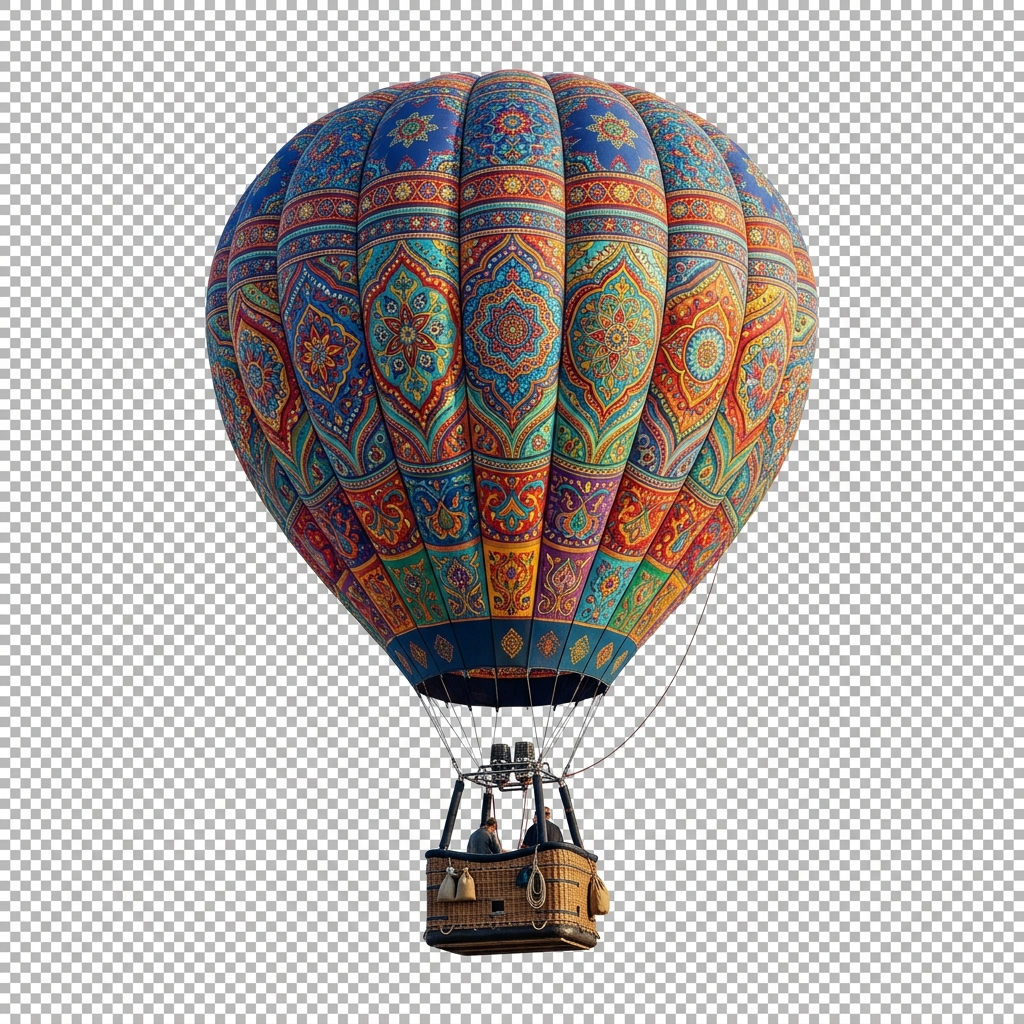
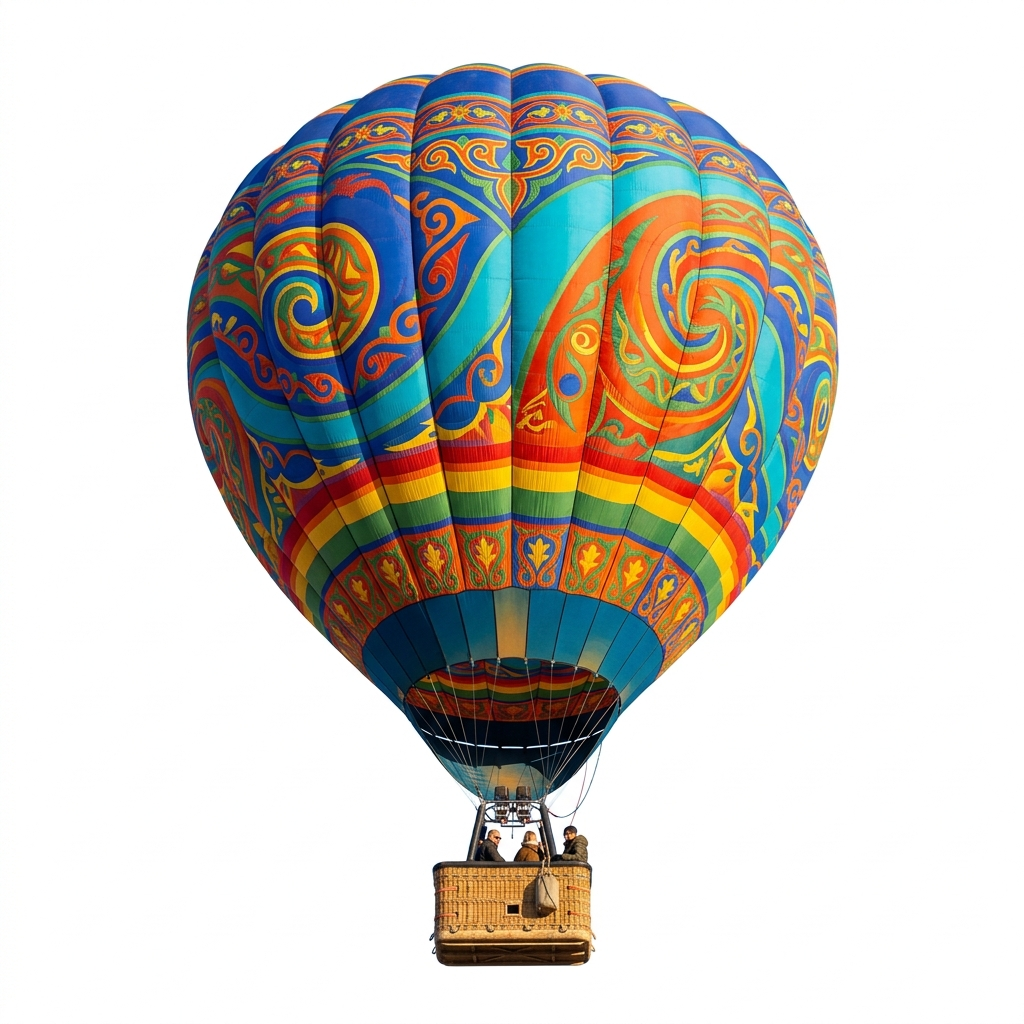
fix: remove balloon background edges using mix-blend-mode

diff --git a/koltuk/style.css b/koltuk/style.css
@@ -44,8 +44,9 @@ body {
     background-image: url('balloon.png');
     background-size: contain;
     background-repeat: no-repeat;
-    opacity: 0.7;
-    filter: drop-shadow(0 5px 15px rgba(0,0,0,0.1));
+    opacity: 0.8;
+    mix-blend-mode: multiply; /* Beyaz arka planı yok eder */
+    filter: drop-shadow(0 5px 15px rgba(0,0,0,0.05));
 }
 
 @keyframes floatUp {
